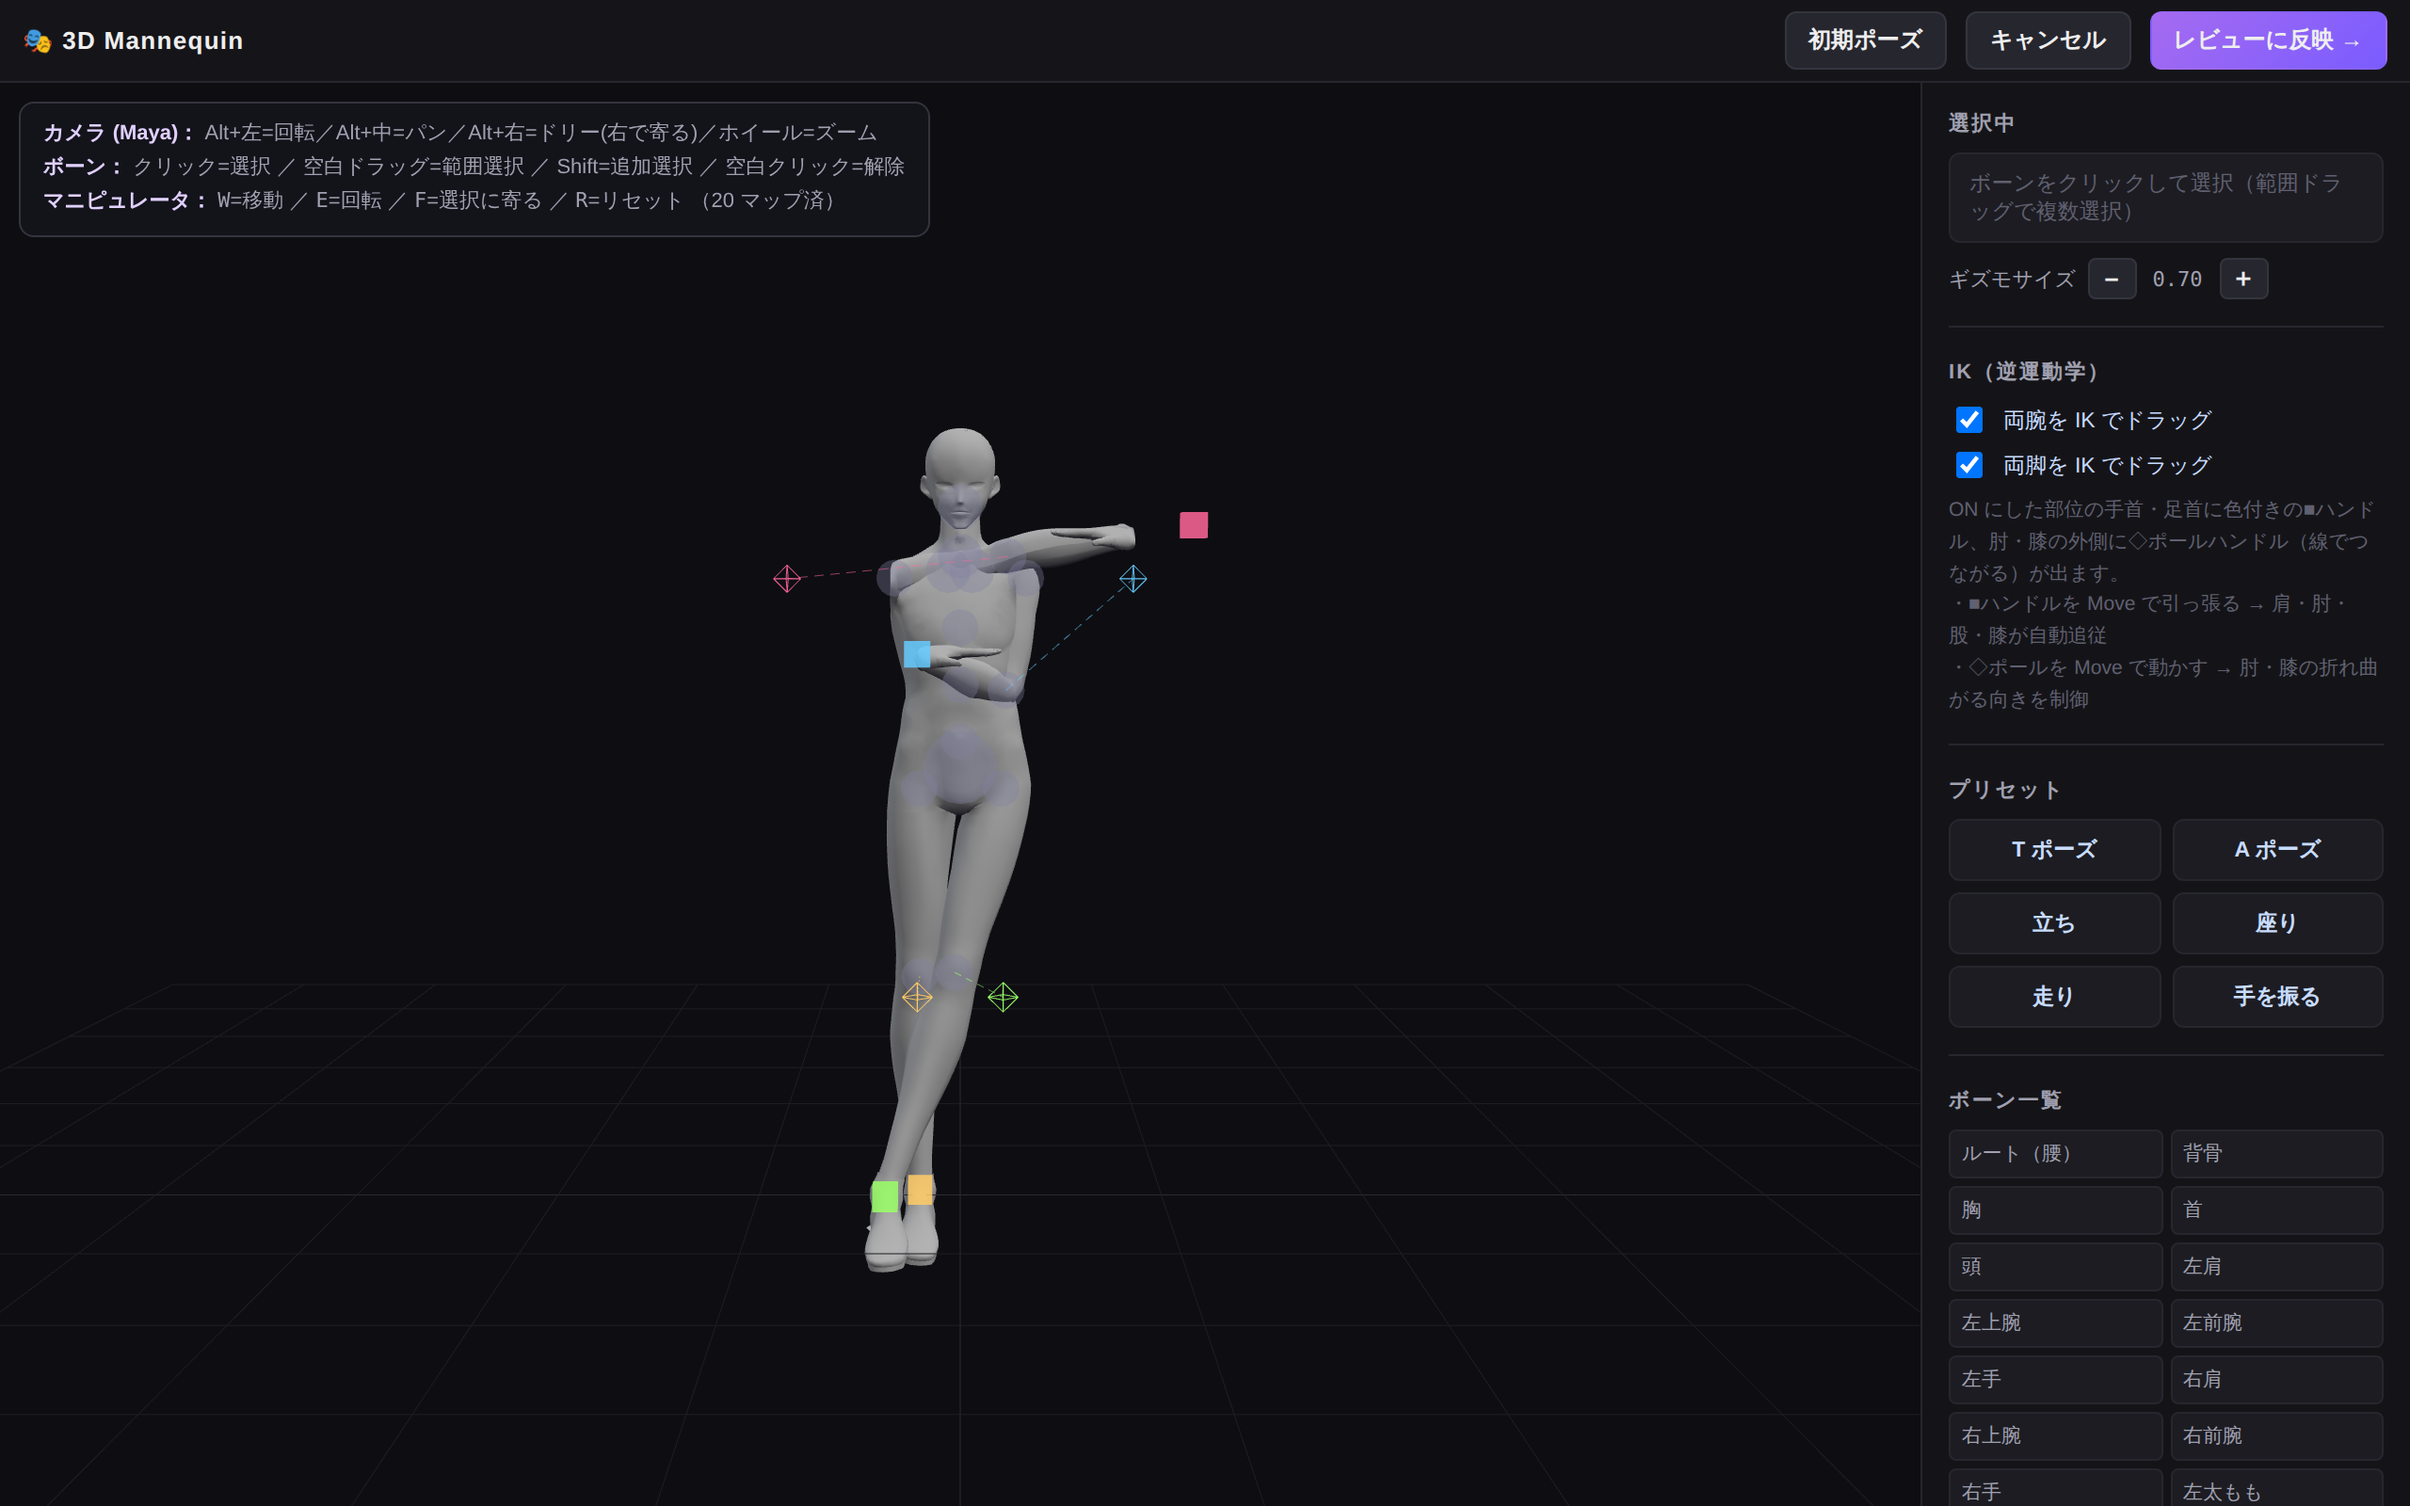
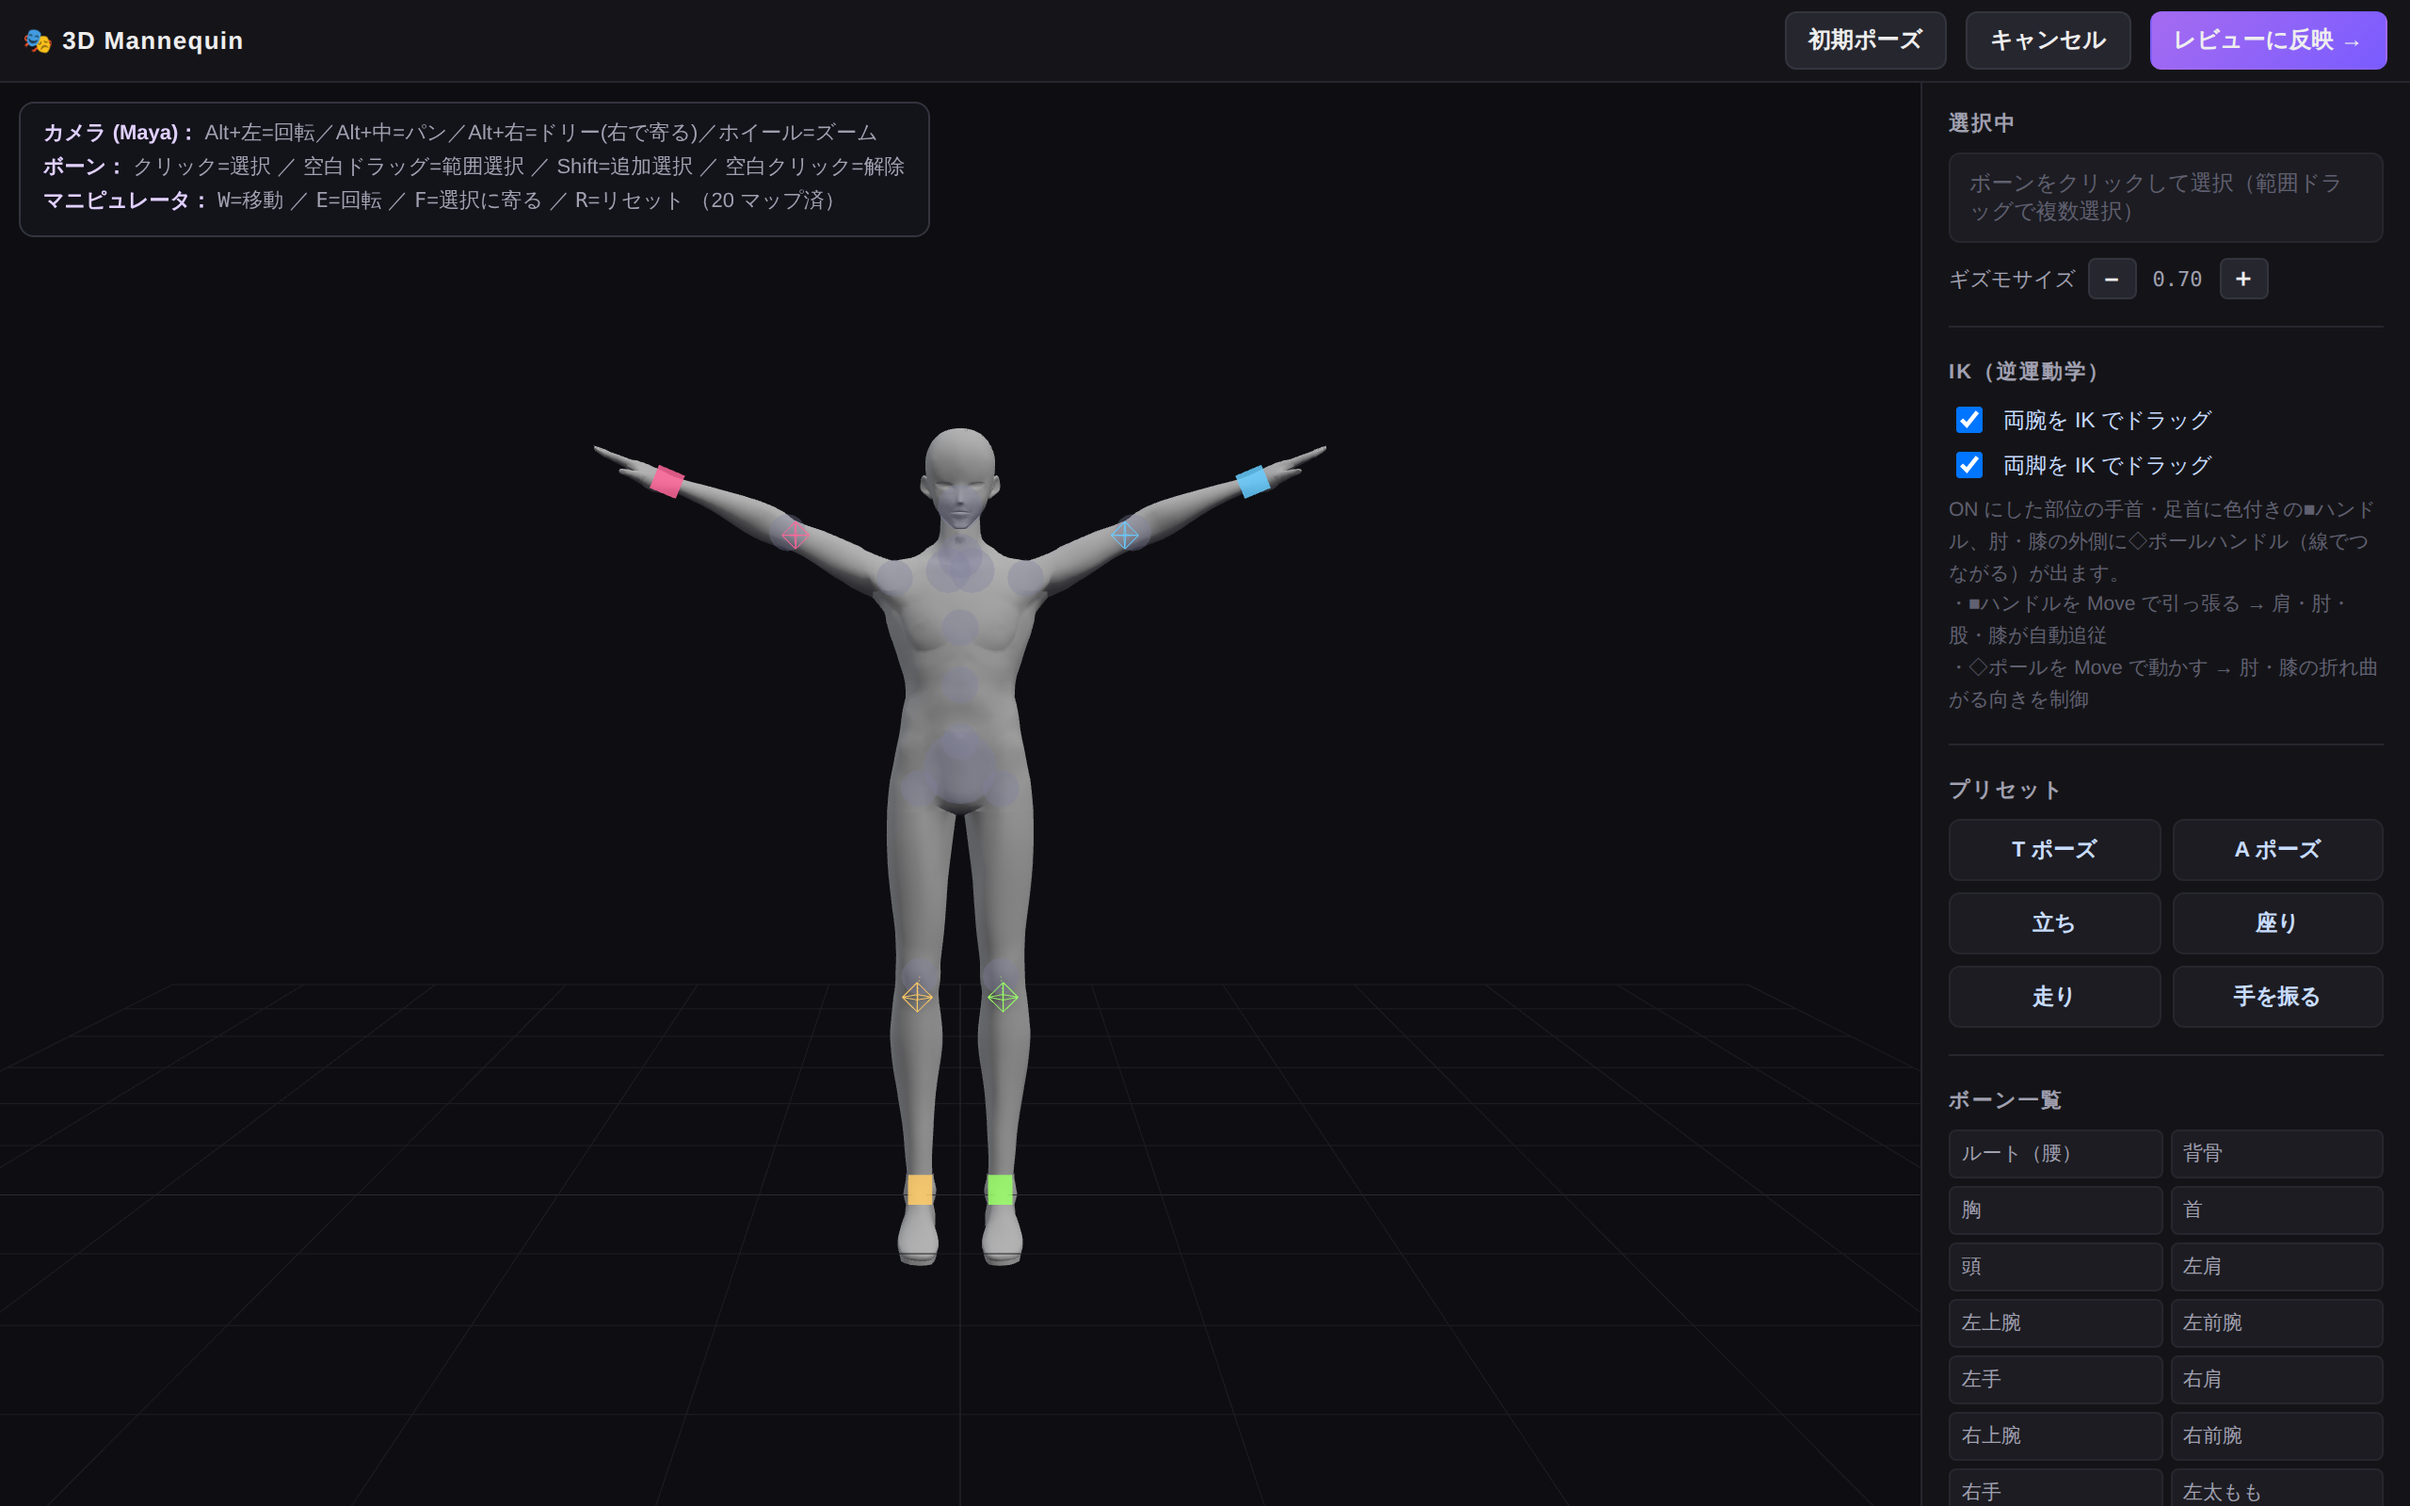
intro: 3D マネキンのポーズ画像を差し替え + 「他ツールには無い」にも追加
- mann_intro_ik.png を A ポーズ + IK ハンドルの綺麗な構図に差し替え
  （前バージョンは腕が奇妙な位置に配置されていた）
- 「他のツールには無い」セクションに 4 個目の diff-block 追加：
  「ブラウザだけで、3D キャラを動かしてポーズ指示。」
  Maya/Blender 不要でブラウザ内完結という差別化ポイントを訴求。

diff --git a/intro.html b/intro.html
@@ -633,6 +633,29 @@
       </div>
     </div>
 
+    <div class="diff-block" id="mannequin">
+      <div class="diff-inner">
+        <div class="diff-text">
+          <span class="label">🎭 3D ポーズ</span>
+          <h3>ブラウザだけで、3D キャラを動かしてポーズ指示。</h3>
+          <p>
+            レビュアーが絵で描きづらいポーズも、3D キャラを直接動かしてアノテに貼り付けられます。
+            <b>Maya や Blender をインストールせず、ブラウザだけで完結する 3D ポーズマネキンは他のツールにはない機能です。</b>
+            IK（逆運動学）で手足を掴んで引っ張るだけで肩・肘・股・膝が自動追従し、Maya 準拠のカメラ操作でアニメーター／演出家にも違和感がありません。
+          </p>
+          <ul>
+            <li>Alt+ドラッグの Maya 準拠カメラ、<kbd>W</kbd>=移動 <kbd>E</kbd>=回転 <kbd>F</kbd>=選択に寄る</li>
+            <li>両腕・両脚に IK（別々に ON/OFF 可）＋ ポールベクターで肘・膝の向き制御</li>
+            <li>腰を動かしても足は接地したまま、姿勢もキープ</li>
+            <li>他のツールでは 3D ソフトでポーズを作って画像を貼るしかなかった一手間を、ブラウザ内で完結</li>
+          </ul>
+        </div>
+        <div class="diff-media">
+          <img src="slides_assets/mann_intro_ik.png" alt="3D マネキン（IK ハンドル付き）">
+        </div>
+      </div>
+    </div>
+
   </div>
 </section>
 
